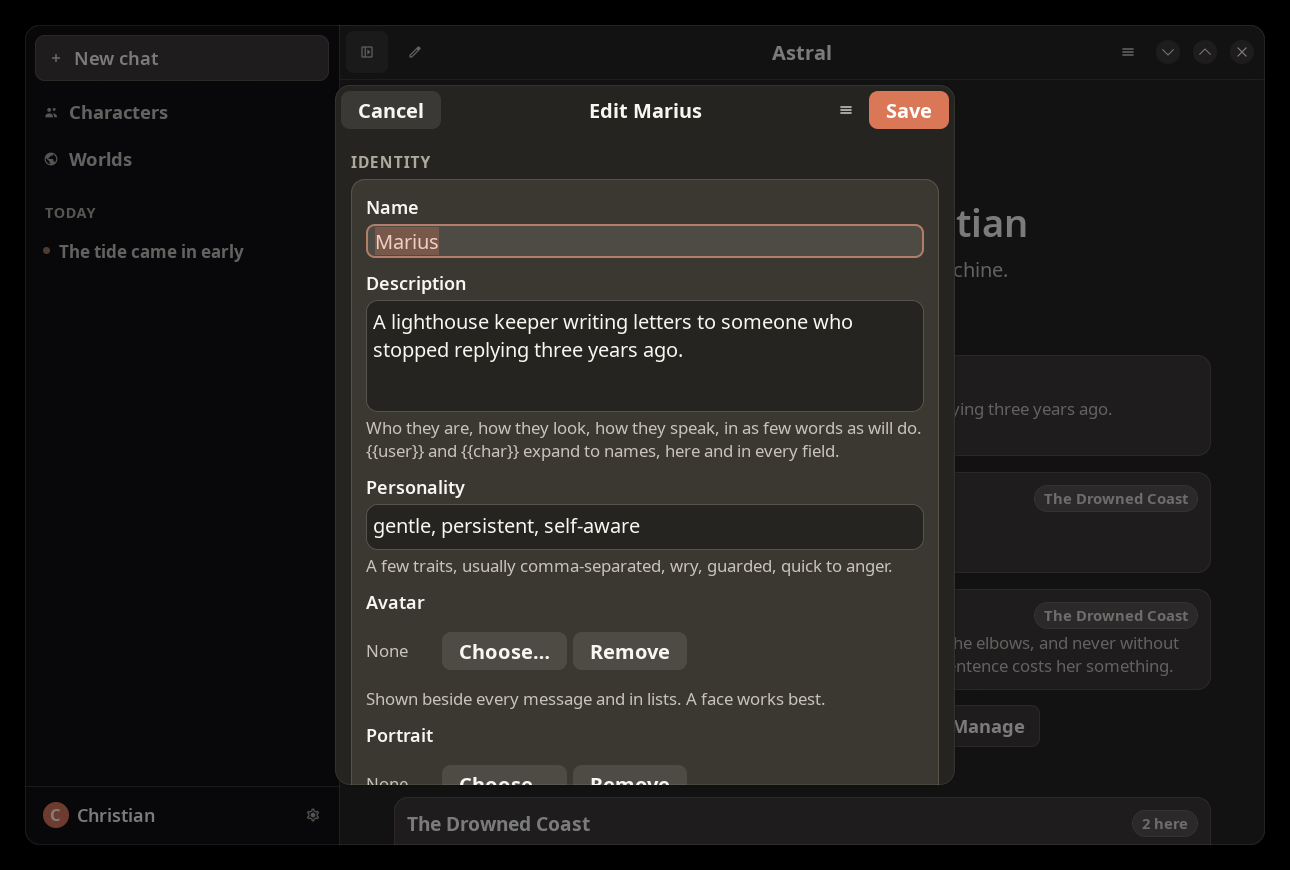
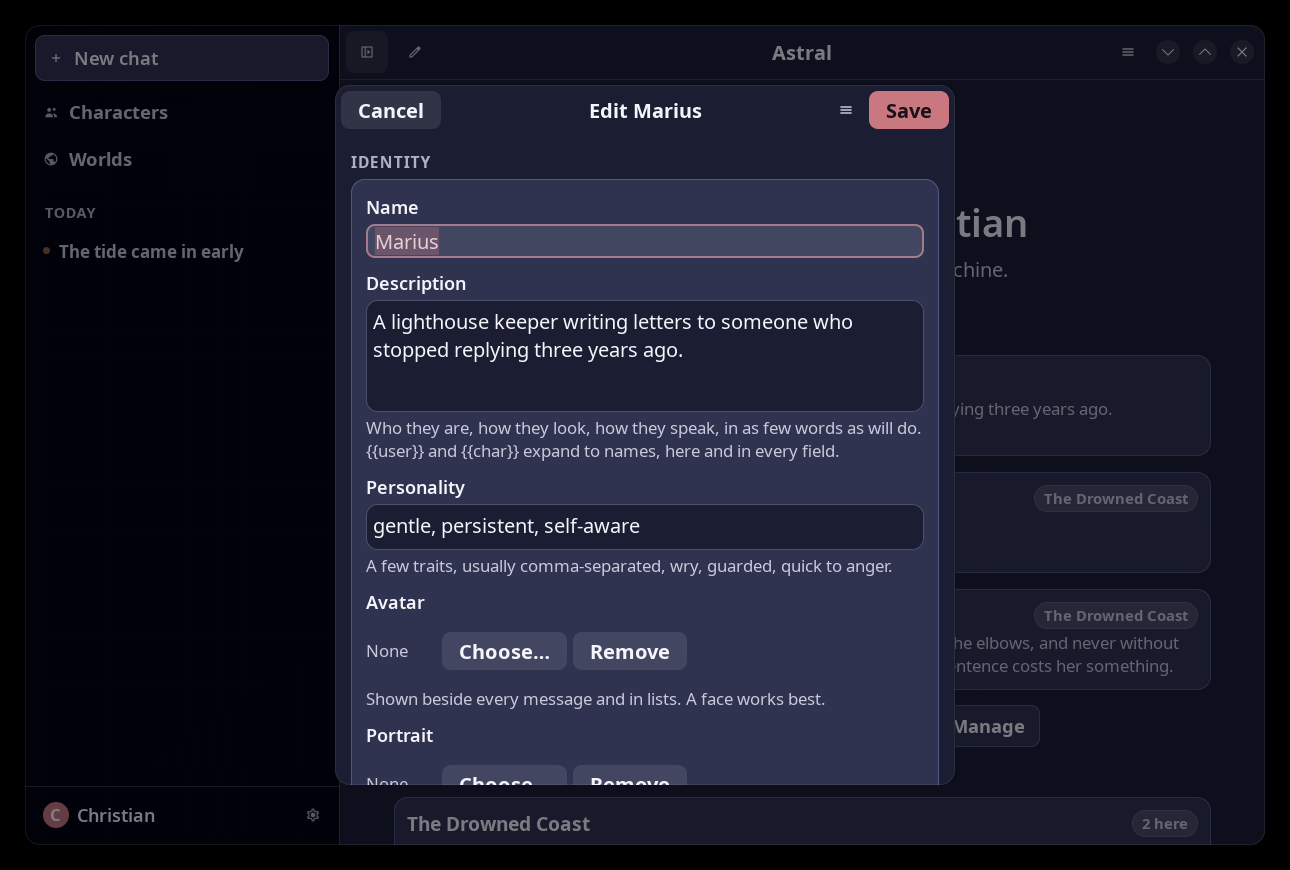
Repaint: deep ink and dusk rose
The warm brown-black and clay accent read as a developer tool rather
than as something you write fiction in. This is the same application in
a blue-violet dark with a dusk rose accent. Colours and surfaces only:
no layout, type, size or spacing has moved.

The ladder was solved, not chosen, because ink this dark compresses. The
first attempt put the canvas 1.09:1 above the sidebar and the bubbles
1.12:1 above the canvas — invisible, and the exact mistake the previous
scheme's own notes warned about after it had made it once already.

So the floor was set to the palette that shipped before it: nothing may
be worse than what it replaces. A search over hue, saturation and the
four surface levels then found one that passes, and it is better on
thirteen of the fourteen measured pairs. The fourteenth, body text, is
9.51:1 against 9.56:1.

  border/surface    1.76  was 1.49      muted/canvas    10.01  was 8.89
  faint/canvas      7.62  was 6.61      muted/surface    7.48  was 6.70
  faint/surface     5.69  was 4.99      muted/elevated   6.33  was 5.93
  faint/elevated    4.82  was 4.41      narration        5.87  was 5.70
  elevated/surface  1.18  was 1.13      bubble sep       1.41  was 1.39

One colour from the agreed direction had to move. The proposed text
#e6e4f0 is dimmer than what shipped, and three other checks cascade off
it — the narration wash, the text on a user bubble, and body text on the
composer all fell below the old palette. Brightening it to #f5f4fb
[…]

Changed region(s): [[0.2481, 0.1552, 0.7442, 0.931], [0.6512, 0.0931, 0.7442, 0.1552]]

diff --git a/assets/dark.css b/assets/dark.css
@@ -1,83 +1,91 @@
 /*
  * Astral — dark colour scheme (the default).
  *
- * These are libadwaita's own named colours, redefined to Anthropic's palette so
- * every stock Adwaita widget — popovers, dialogs, switches, dropdowns — comes
- * out warm instead of the platform's neutral grey. Structure lives in
- * style.css and refers to these names only, so the two schemes share one
- * stylesheet and swapping them is swapping this file.
+ * These are libadwaita's own named colours, redefined so every stock Adwaita
+ * widget — popovers, dialogs, switches, dropdowns — comes out in Astral's
+ * palette instead of the platform's neutral grey. Structure lives in style.css
+ * and refers to these names only, so the two schemes share one stylesheet and
+ * swapping them is swapping this file.
  *
- * The greys are warm on purpose: these are brown-blacks, not neutral ones.
- * That single degree of warmth is most of what separates this from a generic
- * dark theme, and it is why the clay accent sits in the palette rather than on
- * top of it.
+ * This is deep ink: a blue-violet dark, with a dusk rose accent. It replaced a
+ * warm brown-black and a clay accent, which read as a developer tool rather
+ * than as something you write fiction in.
  *
- * The levels are a real ladder, not four shades of the same thing. An earlier
- * version had the chat canvas at #262624 and message bubbles at #30302e — a
- * contrast ratio of 1.15:1, which is to say invisible. Bubbles did not read as
- * objects, the transcript was one flat wash, and the result was hard to read
- * even though the text itself was at 12:1. Every pair below was checked
- * numerically: text is at least 4.5:1 against whatever sits behind it, and
- * each surface is at least 1.28:1 against the one underneath.
+ * The levels are a real ladder, not four shades of the same thing. That is
+ * harder here than it was in the browns, because ink this dark compresses:
+ * the first attempt at this palette put the canvas 1.09:1 above the sidebar
+ * and the bubbles 1.12:1 above the canvas, which is to say invisible, and is
+ * exactly the mistake the previous scheme's notes warned about.
+ *
+ * So the ladder was solved rather than chosen. Every pair below was computed,
+ * with the palette that shipped before it as the floor: nothing here is worse
+ * than what it replaced, and thirteen of the fourteen measured pairs are
+ * better. Body text is at least 9.5:1 on every surface it can land on, and
+ * each surface is at least 1.18:1 above the one underneath.
  */
 
 /* ---- Levels, darkest first ---- */
 
-@define-color astral_sidebar  #10100e;  /* navigation: the floor */
-@define-color astral_canvas   #262420;  /* the chat area */
-@define-color astral_surface  #3b3832;  /* bubbles and cards, lifted off it */
-@define-color astral_elevated #434039;  /* composer, popovers, dialogs */
-@define-color astral_border   #575146;
+@define-color astral_sidebar  #03050d;  /* navigation: the floor */
+@define-color astral_canvas   #1b1e32;  /* the chat area */
+@define-color astral_surface  #2f3350;  /* bubbles and cards, lifted off it */
+@define-color astral_elevated #393e5d;  /* composer, popovers, dialogs */
+@define-color astral_border   #51577d;
 
 /* ---- Text ---- */
 
-@define-color astral_text  #f7f6f1;
-@define-color astral_muted #c8c4b9;  /* secondary text, 8.9:1 on canvas */
-@define-color astral_faint #aea99d;  /* timestamps and captions, 6.6:1 */
+@define-color astral_text  #f5f4fb;
+@define-color astral_muted #cac8db;  /* secondary text, 10.0:1 on canvas */
+@define-color astral_faint #b1aec6;  /* timestamps and captions, 7.6:1 */
 
 /* ---- libadwaita's names ---- */
 
-@define-color window_bg_color #262420;
-@define-color window_fg_color #f7f6f1;
-@define-color view_bg_color #262420;
-@define-color view_fg_color #f7f6f1;
+@define-color window_bg_color #1b1e32;
+@define-color window_fg_color #f5f4fb;
+@define-color view_bg_color #1b1e32;
+@define-color view_fg_color #f5f4fb;
 
-@define-color headerbar_bg_color #262420;
-@define-color headerbar_fg_color #f7f6f1;
-@define-color headerbar_border_color #575146;
-@define-color headerbar_backdrop_color #262420;
+@define-color headerbar_bg_color #1b1e32;
+@define-color headerbar_fg_color #f5f4fb;
+@define-color headerbar_border_color #51577d;
+@define-color headerbar_backdrop_color #1b1e32;
 
-@define-color sidebar_bg_color #10100e;
-@define-color sidebar_fg_color #f7f6f1;
-@define-color sidebar_backdrop_color #10100e;
-@define-color sidebar_border_color #575146;
+@define-color sidebar_bg_color #03050d;
+@define-color sidebar_fg_color #f5f4fb;
+@define-color sidebar_backdrop_color #03050d;
+@define-color sidebar_border_color #51577d;
 
-@define-color card_bg_color #3b3832;
-@define-color card_fg_color #f7f6f1;
-@define-color dialog_bg_color #2f2d28;
-@define-color dialog_fg_color #f7f6f1;
-@define-color popover_bg_color #434039;
-@define-color popover_fg_color #f7f6f1;
+@define-color card_bg_color #2f3350;
+@define-color card_fg_color #f5f4fb;
+@define-color dialog_bg_color #252943;
+@define-color dialog_fg_color #f5f4fb;
+@define-color popover_bg_color #393e5d;
+@define-color popover_fg_color #f5f4fb;
 
-/* Clay. accent_color is the accent used as *text*, lightened here because the
-   brand clay does not carry a reading contrast against a dark canvas. */
-@define-color accent_bg_color #d97757;
-@define-color accent_fg_color #ffffff;
-@define-color accent_color #eda488;
+/* Dusk rose.
+ *
+ * accent_fg_color is ink, not white. White on this rose is 3.24:1, which fails
+ * to read on a filled button; the ink is 5.7:1. The previous scheme had the
+ * same problem with white on clay at 3.12:1 and simply carried it.
+ *
+ * accent_color is the accent used as *text*, lightened because the rose itself
+ * only reaches 5.1:1 on the canvas and 3.8:1 on a bubble. */
+@define-color accent_bg_color #c9787f;
+@define-color accent_fg_color #1b1119;
+@define-color accent_color #e3a8ad;
 
-@define-color destructive_bg_color #c0392b;
+@define-color destructive_bg_color #b34a52;
 @define-color destructive_fg_color #ffffff;
-@define-color destructive_color #ef8b80;
-@define-color success_color #a9c488;
-@define-color warning_color #e8b57a;
-@define-color error_color #ef8b80;
+@define-color destructive_color #ef9aa0;
+@define-color success_color #8fc9a5;
+@define-color warning_color #e0b981;
+@define-color error_color #ef9aa0;
 
 /* ---- Astral's own ---- */
 
-@define-color astral_surface_hover #47443c;
-@define-color astral_composer_bg #434039;
-/* Clay at 38% over the canvas. It was 22%, which put the two bubbles 1.05:1
-   apart: the sides of the conversation were distinguished by hue and alignment
-   alone, and at a glance the transcript read as one column. 38% is 1.39:1
-   against the character's bubble, with body text still at 7.8:1 on it. */
-@define-color astral_user_bubble #6a4435;
+@define-color astral_surface_hover #383d5e;
+@define-color astral_composer_bg #393e5d;
+/* Dusk rose at 40% over the canvas. The two bubbles have to be told apart at a
+   glance or the transcript reads as one column: this is 1.41:1 against the
+   character's bubble, with body text still at 8.0:1 on it. */
+@define-color astral_user_bubble #614251;

diff --git a/assets/light.css b/assets/light.css
@@ -1,69 +1,70 @@
 /*
  * Astral — light colour scheme. The mirror of dark.css; see that file for why
- * the greys are warm and why the levels form a ladder.
+ * this is ink and rose rather than the warm browns it replaced, and why the
+ * levels are solved rather than chosen.
  *
  * Light mode inverts the bubble relationship rather than copying it. Near
  * white there is no luminance headroom left above the canvas, so a bubble
  * cannot be made to sit *above* it the way the dark scheme does — which is why
  * every light messaging app makes the incoming bubble slightly darker than the
- * page instead. Astral does the same, and leans harder on the border: at 1.68:1
- * against the canvas it is doing as much of the separating as the fill is.
+ * page instead. Astral does the same, and leans harder on the border.
  */
 
 /* ---- Levels ---- */
 
-@define-color astral_sidebar  #f0ece0;
-@define-color astral_canvas   #fdfcf8;
-@define-color astral_surface  #eeeade;  /* bubbles: below the canvas, not above */
+@define-color astral_sidebar  #e9e8f2;
+@define-color astral_canvas   #faf9fd;
+@define-color astral_surface  #eceaf5;  /* bubbles: below the canvas, not above */
 @define-color astral_elevated #ffffff;
-@define-color astral_border   #cbc5b3;
+@define-color astral_border   #c2bfd4;
 
 /* ---- Text ---- */
 
-@define-color astral_text  #16150f;
-@define-color astral_muted #524f47;  /* 8.0:1 on canvas */
-@define-color astral_faint #67645b;  /* 5.8:1 on canvas */
+@define-color astral_text  #151728;
+@define-color astral_muted #454863;  /* 8.5:1 on canvas */
+@define-color astral_faint #5c5f78;  /* 6.2:1 on canvas */
 
 /* ---- libadwaita's names ---- */
 
-@define-color window_bg_color #fdfcf8;
-@define-color window_fg_color #16150f;
-@define-color view_bg_color #fdfcf8;
-@define-color view_fg_color #16150f;
+@define-color window_bg_color #faf9fd;
+@define-color window_fg_color #151728;
+@define-color view_bg_color #faf9fd;
+@define-color view_fg_color #151728;
 
-@define-color headerbar_bg_color #fdfcf8;
-@define-color headerbar_fg_color #16150f;
-@define-color headerbar_border_color #cbc5b3;
-@define-color headerbar_backdrop_color #fdfcf8;
+@define-color headerbar_bg_color #faf9fd;
+@define-color headerbar_fg_color #151728;
+@define-color headerbar_border_color #c2bfd4;
+@define-color headerbar_backdrop_color #faf9fd;
 
-@define-color sidebar_bg_color #f0ece0;
-@define-color sidebar_fg_color #16150f;
-@define-color sidebar_backdrop_color #f0ece0;
-@define-color sidebar_border_color #cbc5b3;
+@define-color sidebar_bg_color #e9e8f2;
+@define-color sidebar_fg_color #151728;
+@define-color sidebar_backdrop_color #e9e8f2;
+@define-color sidebar_border_color #c2bfd4;
 
 @define-color card_bg_color #ffffff;
-@define-color card_fg_color #16150f;
-@define-color dialog_bg_color #fdfcf8;
-@define-color dialog_fg_color #16150f;
+@define-color card_fg_color #151728;
+@define-color dialog_bg_color #faf9fd;
+@define-color dialog_fg_color #151728;
 @define-color popover_bg_color #ffffff;
-@define-color popover_fg_color #16150f;
+@define-color popover_fg_color #151728;
 
-/* The filled clay is deepened here. The same hue at the dark scheme's
-   lightness puts white text at 3.1:1 on a light page, which is below the bar
-   for a button label; this is the same colour, taken down until it clears it. */
-@define-color accent_bg_color #c25f3d;
+/* The rose is deepened here. The same hue at the dark scheme's lightness puts
+   white text at 3.2:1 on a light page, below the bar for a button label; this
+   is the same colour taken down until it clears it, and it doubles as the
+   accent used for text. */
+@define-color accent_bg_color #a34a56;
 @define-color accent_fg_color #ffffff;
-@define-color accent_color #a8471f;
+@define-color accent_color #98404c;
 
-@define-color destructive_bg_color #b5342a;
+@define-color destructive_bg_color #b03a38;
 @define-color destructive_fg_color #ffffff;
-@define-color destructive_color #99291f;
-@define-color success_color #4d6334;
+@define-color destructive_color #a3312f;
+@define-color success_color #3f6b4e;
 @define-color warning_color #8a5a1c;
-@define-color error_color #99291f;
+@define-color error_color #a3312f;
 
 /* ---- Astral's own ---- */
 
-@define-color astral_surface_hover #e4e0d2;
+@define-color astral_surface_hover #e2e0ee;
 @define-color astral_composer_bg #ffffff;
-@define-color astral_user_bubble #e7c0b1;  /* clay at 38%, see dark.css */
+@define-color astral_user_bubble #e6c5cb;  /* rose at 40%, see dark.css */

diff --git a/assets/style.css b/assets/style.css
@@ -604,7 +604,7 @@ frame:focus-within {
 	border-radius: 9999px;
 	background-color: alpha(@window_fg_color, 0.14);
 	border: 1px solid alpha(@window_fg_color, 0.10);
-	color: #ddd9cf;
+	color: @astral_muted;
 }
 
 /* A lore entry the model was unsure of, waiting to be looked at. */
@@ -645,11 +645,11 @@ frame:focus-within {
 }
 
 .status-dot.online {
-	background-color: #7fa65a;
+	background-color: @success_color;
 }
 
 .status-dot.offline {
-	background-color: #c0564a;
+	background-color: @destructive_bg_color;
 }
 
 /* ---- Dialogs & settings ---- */
@@ -727,14 +727,14 @@ frame:focus-within {
  * letter cannot be read is not doing its job.
  */
 
-.accent-0 { background-color: #c86a4b; } /* clay */
-.accent-1 { background-color: #b35a77; } /* fig */
-.accent-2 { background-color: #5b89ba; } /* sky */
-.accent-3 { background-color: #6b7e50; } /* olive */
-.accent-4 { background-color: #b35637; } /* deep */
-.accent-5 { background-color: #9e7852; } /* kraft, deepened */
-.accent-6 { background-color: #7a7897; } /* heather, deepened */
-.accent-7 { background-color: #5f8378; } /* cactus, deepened */
+.accent-0 { background-color: #a85661; } /* dusk rose, the accent itself */
+.accent-1 { background-color: #8a5b96; } /* plum */
+.accent-2 { background-color: #5566ab; } /* indigo */
+.accent-3 { background-color: #3d7f86; } /* teal */
+.accent-4 { background-color: #5c7f5a; } /* moss */
+.accent-5 { background-color: #8e6234; } /* amber */
+.accent-6 { background-color: #5e6c8f; } /* slate */
+.accent-7 { background-color: #964f5e; } /* wine */
 
 /* A scene direction that is actually set, as against the invitation to set
    one. The two are the same control and have to read as different states. */
@@ -753,14 +753,14 @@ frame:focus-within {
    yet, and a red light in a header bar reads as an error that has already
    cost you something. */
 .offline-chip {
-	background-color: alpha(#e8a33d, 0.20);
-	border: 1px solid alpha(#e8a33d, 0.55);
+	background-color: alpha(@warning_color, 0.20);
+	border: 1px solid alpha(@warning_color, 0.55);
 	border-radius: 9px;
-	color: #f0c98a;
+	color: @warning_color;
 }
 
 .offline-chip:hover {
-	background-color: alpha(#e8a33d, 0.32);
+	background-color: alpha(@warning_color, 0.32);
 }
 
 /* "+ New thing" at the end of a list. Outlined rather than filled: it is a

diff --git a/internal/ui/orb.go b/internal/ui/orb.go
@@ -36,8 +36,8 @@ func NewOrb(size int) *Orb {
 // than read from the theme: the orb is the one element that should look the
 // same in both schemes, because it is the logo.
 const (
-	orbR, orbG, orbB = 0.851, 0.467, 0.341 // #d97757
-	litR, litG, litB = 0.961, 0.820, 0.745 // warm highlight
+	orbR, orbG, orbB = 0.788, 0.471, 0.498 // #c9787f, the dusk rose accent
+	litR, litG, litB = 0.937, 0.776, 0.792 // the same hue, lifted, for the highlight
 )
 
 func (o *Orb) draw(_ *gtk.DrawingArea, cr *cairo.Context, w, h int) {

diff --git a/internal/app/devseed.go b/internal/app/devseed.go
@@ -147,9 +147,10 @@ func (a *App) seedPortrait(name string) string {
 	img := make([]byte, 0, w*h*3)
 	for y := 0; y < h; y++ {
 		t := float64(y) / float64(h)
-		r := byte(60 + 160*(1-t))
-		g := byte(40 + 90*(1-t))
-		b := byte(36 + 60*(1-t))
+		// Dusk rose at the top fading into the canvas ink at the bottom.
+		r := byte(27 + 174*(1-t))
+		g := byte(30 + 90*(1-t))
+		b := byte(50 + 77*(1-t))
 		for x := 0; x < w; x++ {
 			img = append(img, r, g, b)
 		}

diff --git a/screenshots/INDEX.md b/screenshots/INDEX.md
@@ -21,6 +21,6 @@ committed so the README has something to show.
 `REVIEW-PROMPT.md` beside these is a self-contained brief for having the
 interface critiqued: hand it to a reviewer along with the eleven images.
 
-All captured at 1240x820 in the dark scheme. A light scheme exists and inverts
-the bubble relationship, since near white there is no headroom to lift a
-surface above the page.
+All captured at 1240x820 in the dark scheme: deep ink with a dusk rose accent.
+A light scheme exists in the same hues and inverts the bubble relationship,
+since near white there is no headroom to lift a surface above the page.

diff --git a/screenshots/REVIEW-PROMPT.md b/screenshots/REVIEW-PROMPT.md
@@ -14,7 +14,7 @@ It is a single-user, offline, personal application. There are no accounts, no
 sharing, no collaboration, and no network beyond the local model server.
 
 Built with GTK4 and libadwaita, so it follows GNOME conventions, but with a
-deliberately warm custom palette rather than the default GNOME grey. A light
+deliberately moody custom palette rather than the default GNOME grey. A light
 theme exists; every screenshot here is the dark one.
 
 ## Who uses it
